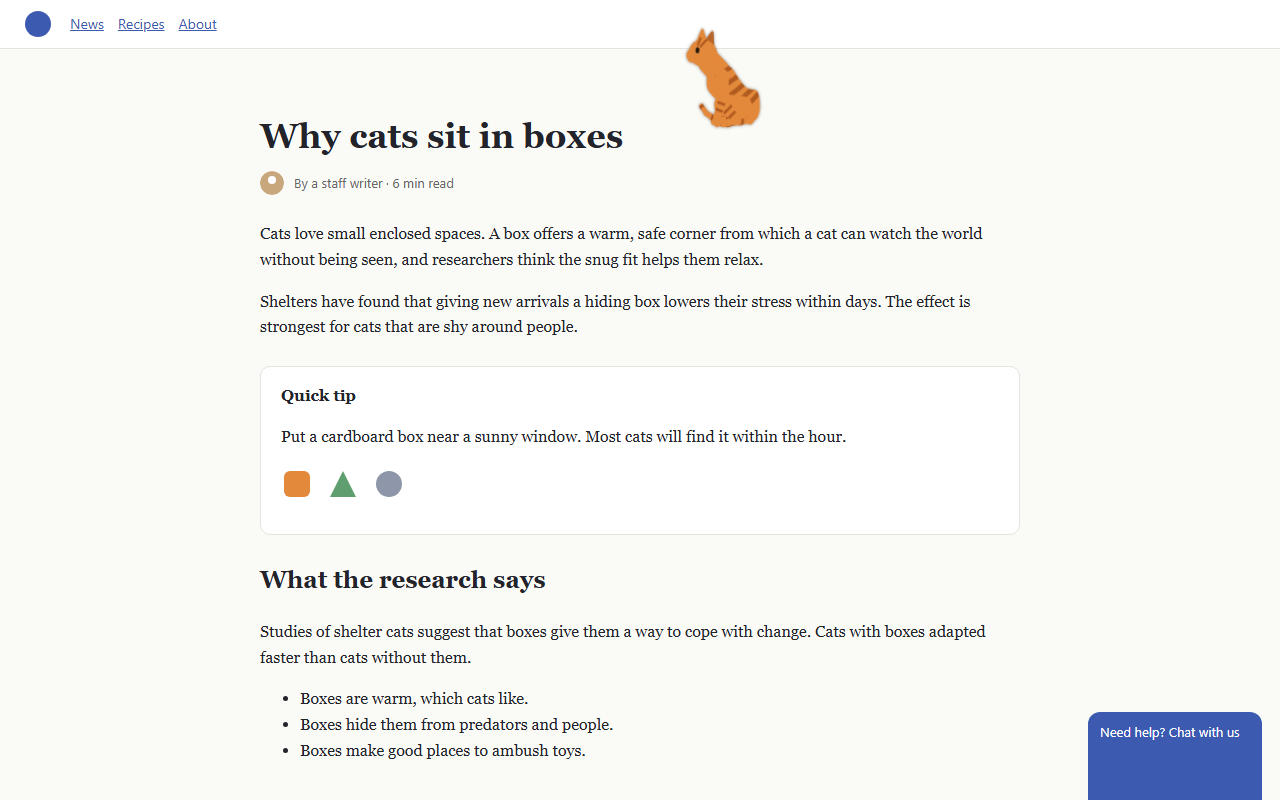
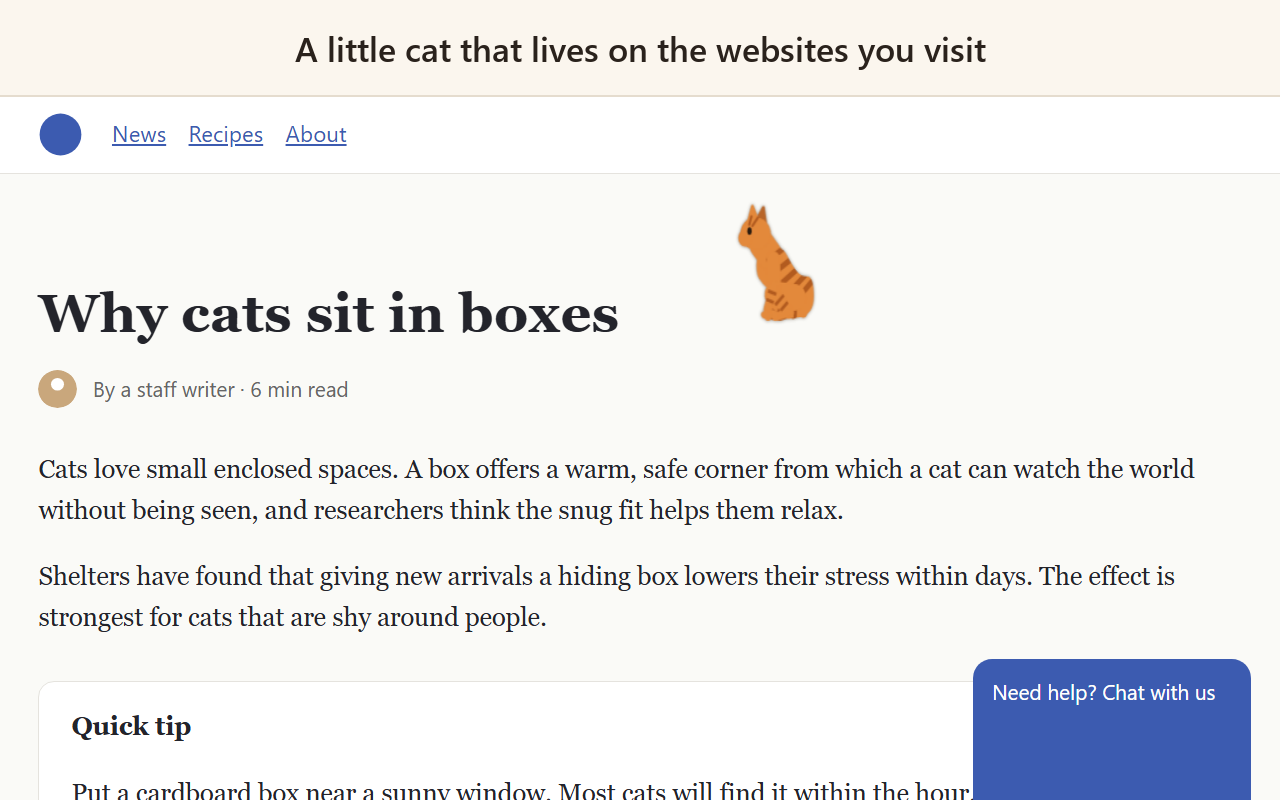
New store screenshots
Five 1280x800 shots with a one-line caption each: perched, playing with
a word, held by the scruff, napping, and the menu with Your cats. The
page is zoomed so the cat is easy to see. tools/make_screenshots.py
rebuilds them.

diff --git a/page-cat/test/test-page.html b/page-cat/test/test-page.html
@@ -65,6 +65,7 @@
     // ?spec=<cat spec JSON> previews a custom cat before it is signed into a code.
     if (q.has('spec')) { d.setCats([{ id: 'preview', spec: JSON.parse(q.get('spec')) }]); opts.pattern = 'cat:preview'; }
     d.applySettings({ ...d.settings, ...opts });
+    if (q.has('scroll')) { window.scrollTo(0, +q.get('scroll')); d.scan(); }
     const step = sec => { for (let i = 0; i < sec * 60; i++) d.step(1 / 60); };
     const firstP = document.querySelector('main > p');
     if (scene === 'perch') { d.placeOn(document.querySelector('h1'), 0.62, 'sit'); d.cat.f = d.cat.fa = -1; step(2.5); }
@@ -146,8 +147,15 @@
         if (time >= 1.6 && d.cat.state === 'held') d.release();          // let go
         d.step(dt); time += dt;
       }
+      // ?hand draws a grabbing hand where the cat is held (screenshots can't capture the cursor).
+      if (q.has('hand') && d.cat.held) {
+        const h = document.createElement('div');
+        h.textContent = '✊';
+        h.style.cssText = `position:fixed;z-index:2147483647;font-size:${+q.get('size') * 0.5}px;line-height:1;left:${d.cat.held.x - d.cat.fa * 0.1 * +q.get('size')}px;top:${d.cat.held.y}px;transform:translate(-50%,-12%)`;
+        document.documentElement.appendChild(h);
+      }
     }
-    if (scene === 'nap') { d.placeOn(document.querySelector('.card'), 0.7, 'sleep'); step(4); }
+    if (scene === 'nap') { d.placeOn(document.querySelector(q.get('where') || '.card'), +(q.get('at') || 0.7), 'sleep'); step(4); }
     if (scene === 'play') {
       d.placeOn(firstP, 0.15, 'idle', 0.05);
       d.cat.preyCool = 0;

diff --git a/page-cat/test/popup-test.html b/page-cat/test/popup-test.html
@@ -24,7 +24,15 @@
   const html = await (await fetch('../popup.html')).text();
   const body = new DOMParser().parseFromString(html, 'text/html').body;
   body.querySelectorAll('script').forEach(s => s.remove());
+  body.querySelectorAll('img[src^="icons/"]').forEach(i => i.setAttribute('src', '../' + i.getAttribute('src')));
   document.body.prepend(...body.childNodes);
+  // ?demo shows the menu with three imported cats, for store screenshots.
+  if (new URLSearchParams(location.search).has('demo')) {
+    const cats = [];
+    for (const n of ['boba', 'moe', 'linda']) cats.push({ id: n, name: n[0].toUpperCase() + n.slice(1), spec: await (await fetch('../orders/' + n + '.json')).json(), size: 40, girth: 1.2 });
+    store.pagecatCats = cats;
+    store.pagecat = { size: 40, girth: 1.2, activity: 0.7, coat: 'ginger', pattern: 'cat:moe', moodCycle: true, pagePlay: true, cursorPlay: true, follow: true };
+  }
   await import('../popup.js');
   const q = new URLSearchParams(location.search), code = q.get('code');
   if (code) {

diff --git a/page-cat/tools/make_screenshots.py b/page-cat/tools/make_screenshots.py
@@ -1,0 +1,95 @@
+"""Builds the five Chrome Web Store screenshots (1280x800) in store/screenshots/.
+
+Each is a scene staged on test/test-page.html with a one-line caption above it.
+The menu shot needs the dev server:  python tools/dev_server.py 8765  (in another terminal)
+
+Run from the page-cat folder:  python tools/make_screenshots.py
+"""
+import subprocess
+import tempfile
+import urllib.parse
+from pathlib import Path
+
+from PIL import Image, ImageDraw, ImageFont
+
+ROOT = Path(__file__).resolve().parent.parent
+CHROME = r"C:\Program Files\Google\Chrome\Application\chrome.exe"
+PAGE = (ROOT / "test" / "test-page.html").as_uri()
+MENU = "http://127.0.0.1:8765/test/popup-test.html?demo"
+OUT = ROOT / "store" / "screenshots"
+W, H, BAND = 1280, 800, 96
+ZOOM = 1.6
+BG, INK = (251, 246, 238), (42, 34, 28)
+
+
+def spec(name):
+    return urllib.parse.quote((ROOT / "orders" / f"{name}.json").read_text())
+
+
+# (file, caption, query string for the test page)
+SHOTS = [
+    ("1-perch", "A little cat that lives on the websites you visit", "scene=perch&size=64&pattern=tabby"),
+    ("2-play", "It steals words and bats them around", f"scene=play&size=64&t=0.5&spec={spec('boba')}"),
+    ("3-held", "Pick it up by the scruff and put it somewhere else", f"scene=hold&hand&size=64&t=1.2&spec={spec('linda')}"),
+    ("4-nap", "It naps when it's tired", "scene=nap&at=0.45&size=64&pattern=calico&tall"),
+    ("5-menu", "Make it look like your cat", f"scene=perch&size=64&spec={spec('moe')}"),
+]
+
+
+def shoot(url, out, w, h, profile, dpr=1):
+    subprocess.run([CHROME, "--headless=new", "--disable-gpu", "--hide-scrollbars", "--no-first-run",
+                    f"--user-data-dir={profile}", f"--window-size={w},{h}", f"--force-device-scale-factor={dpr}",
+                    "--virtual-time-budget=4000", f"--screenshot={out}", url], capture_output=True, timeout=90)
+
+
+def font(size):
+    for n in ("segoeuisb.ttf", "seguisb.ttf", "segoeuib.ttf", "segoeui.ttf"):
+        try:
+            return ImageFont.truetype(n, size)
+        except OSError:
+            continue
+    return ImageFont.load_default()
+
+
+def main():
+    OUT.mkdir(parents=True, exist_ok=True)
+    f = font(34)
+    with tempfile.TemporaryDirectory() as tmp:
+        profile = Path(tmp) / "profile"
+        for name, caption, query in SHOTS:
+            raw = Path(tmp) / f"{name}.png"
+            # Like a browser zoomed to 160%, so the cat is big enough to see in a store thumbnail.
+            # "tall" scenes run in a taller window (the cat behaves as on a normal screen) and are cropped to fit.
+            tall = query.endswith("&tall")
+            shoot(f"{PAGE}?{query}", raw, round(W / ZOOM), round((H - BAND) / ZOOM * (1.4 if tall else 1)), profile, dpr=ZOOM)
+            page = Image.open(raw).convert("RGB").crop((0, 0, W, H - BAND))
+            img = Image.new("RGB", (W, H), BG)
+            img.paste(page, (0, BAND))
+            d = ImageDraw.Draw(img)
+            d.line((0, BAND - 1, W, BAND - 1), fill=(229, 220, 206), width=2)
+            tw = d.textlength(caption, font=f)
+            d.text(((W - tw) / 2, BAND / 2), caption, font=f, fill=INK, anchor="lm")
+            if name == "5-menu":
+                menu_raw = Path(tmp) / "menu.png"
+                shoot(MENU, menu_raw, 312, 800, profile, dpr=2)
+                menu = Image.open(menu_raw).convert("RGB")
+                # Just the top of the menu, down to the Get a custom cat button, so it's readable.
+                px = menu.load()
+                bg = px[menu.width // 2, 5]
+                # the first divider line (a full-width row lighter than the background) after Your cats
+                cut = next((y for y in range(2 * 560, menu.height)
+                            if px[40, y] == px[menu.width // 2, y] == px[menu.width - 24, y] and px[40, y] != bg), menu.height)
+                menu = menu.crop((0, 0, menu.width, cut + 1))
+                scale = (H - BAND - 30) / menu.height
+                menu = menu.resize((int(menu.width * scale), int(menu.height * scale)), Image.LANCZOS)
+                x, y = W - menu.width - 40, BAND + 14
+                shadow = Image.new("RGBA", (menu.width + 24, menu.height + 24), (0, 0, 0, 0))
+                ImageDraw.Draw(shadow).rounded_rectangle((12, 14, menu.width + 12, menu.height + 12), 10, fill=(0, 0, 0, 70))
+                img.paste(shadow, (x - 12, y - 12), shadow)
+                img.paste(menu, (x, y))
+            img.save(OUT / f"{name}.png", optimize=True)
+            print(OUT / f"{name}.png")
+
+
+if __name__ == "__main__":
+    main()

diff --git a/page-cat/store/SUBMIT.md b/page-cat/store/SUBMIT.md
@@ -11,7 +11,7 @@ Open <https://chrome.google.com/webstore/devconsole> in Chrome. Files are relati
 - **Category:** Fun (under Lifestyle). If it isn't offered, use Entertainment.
 - **Language:** English.
 - **Store icon:** `store/icon-store-128.png`
-- **Screenshots** (drag in this order): `store/screenshots/1-perch.png`, `2-play.png`, `3-nap.png`, `4-settings.png`
+- **Screenshots** (drag in this order): `store/screenshots/1-perch.png`, `2-play.png`, `3-held.png`, `4-nap.png`, `5-menu.png` (rebuild with `python tools/make_screenshots.py`, dev server running)
 - **Small promo tile:** `store/promo-small.png`
 - **Marquee promo tile:** `store/marquee.png`
 - **Homepage URL:** `https://small-hours-studio.github.io/page-cat/`
